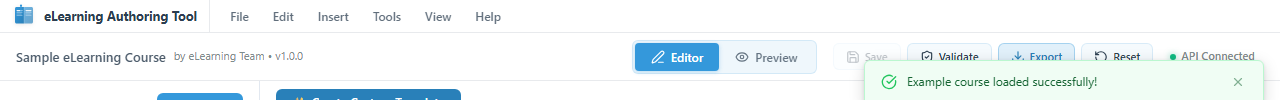
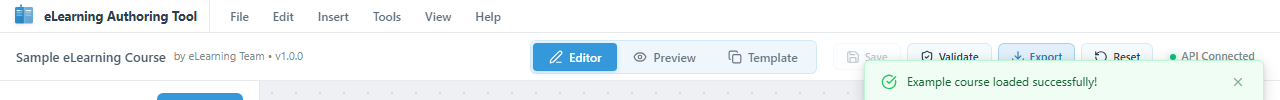
Move template button to Header nav area and lift state to App level
- Lifted showCustomTemplateEditor state from Editor/EditorV2 to App.tsx
- Updated Header component to render template button in nav area (next to Preview button)
- Updated Editor.tsx and EditorV2.tsx to accept state via props instead of managing locally
- Updated TypeScript interfaces (HeaderProps, EditorProps, EditorV2Props)
- Added featureFlags import to Header.tsx
- All 5 E2E tests passing

Changed region(s): [[0.4062, 0.39, 0.625, 0.75], [0.1875, 0.87, 0.375, 1.0]]

diff --git a/src/components/EditorV2.tsx b/src/components/EditorV2.tsx
@@ -14,15 +14,18 @@ import { fetchComponents, addComponent } from '../store/slices/componentsSlice';
 import { setCurrentPage, clearCurrentPage, updatePageTitle } from '../store/slices/editorSlice';
 import { updatePage } from '../store/slices/courseSlice';
 import { featureFlags } from '../utils/featureFlags';
+import { EditorV2Props } from '../types/comprehensive';
 import { ComponentList } from './ComponentList';
 import { ComponentSettings } from './ComponentSettings';
 import CustomTemplateEditor from './CustomTemplateEditor';
 import PageManager from './PageManager';
 import './Editor.css';
 
-const EditorV2: React.FC = () => {
+const EditorV2: React.FC<EditorV2Props> = ({
+  showCustomTemplateEditor = false,
+  onCloseTemplateEditor = () => {},
+}) => {
   const dispatch = useAppDispatch();
-  const [showCustomTemplateEditor, setShowCustomTemplateEditor] = useState(false);
   const [selectedComponentId, setSelectedComponentId] = useState<string | null>(null);
 
   const courseState = useAppSelector((state) => (state as any).course);
@@ -80,7 +83,7 @@ const EditorV2: React.FC = () => {
       {featureFlags.isEnabled('custom-template') && (
         <CustomTemplateEditor
           isOpen={showCustomTemplateEditor}
-          onClose={() => setShowCustomTemplateEditor(false)}
+          onClose={onCloseTemplateEditor}
         />
       )}
 
@@ -92,19 +95,6 @@ const EditorV2: React.FC = () => {
 
         {/* Main Content Area */}
         <div className="editor-main">
-          {/* Custom Template Button */}
-          {featureFlags.isEnabled('custom-template') && (
-            <div className="editor-toolbar">
-              <button
-                className="btn btn-custom-template"
-                onClick={() => setShowCustomTemplateEditor(true)}
-                title="Create custom template"
-              >
-                ✨ Create Custom Template
-              </button>
-            </div>
-          )}
-
           {pageId ? (
             <div className="editor-v2__component-area">
               <div className="editor-v2__page-header">

diff --git a/src/components/Header.tsx b/src/components/Header.tsx
@@ -29,6 +29,7 @@ import {
 import { Course, HeaderProps } from "../types/comprehensive";
 import logger from "../utils/logger";
 import logoSvg from "../assets/logo.svg";
+import { featureFlags } from "../utils/featureFlags";
 import "./Header.css";
 import { useToast } from "./Toast";
 import { ValidationPanel } from "./ValidationPanel";
@@ -37,6 +38,7 @@ const Header: React.FC<HeaderProps> = ({
   currentView,
   onViewChange,
   isBackendConnected,
+  onOpenTemplateEditor,
 }) => {
   const dispatch = useAppDispatch();
   const { validate, errors, warnings, hasErrors, hasWarnings, isValidating } =
@@ -314,6 +316,32 @@ const Header: React.FC<HeaderProps> = ({
             <Eye size={14} />
             Preview
           </button>
+          {onOpenTemplateEditor && featureFlags.isEnabled("custom-template") && (
+            <button
+              className="nav-button template-button"
+              onClick={onOpenTemplateEditor}
+              disabled={isLoading || !course}
+              title="Create a custom template from this course"
+            >
+              <svg
+                xmlns="http://www.w3.org/2000/svg"
+                width="14"
+                height="14"
+                viewBox="0 0 24 24"
+                fill="none"
+                stroke="currentColor"
+                strokeWidth="2"
+                strokeLinecap="round"
+                strokeLinejoin="round"
+                className="lucide lucide-copy"
+                aria-hidden="true"
+              >
+                <rect width="14" height="14" x="8" y="8" rx="2" ry="2"></rect>
+                <path d="M4 16c-1.1 0-2-.9-2-2V4c0-1.1.9-2 2-2h10c1.1 0 2 .9 2 2"></path>
+              </svg>
+              Template
+            </button>
+          )}
         </nav>
 
         <div className="header-right">

diff --git a/src/components/Editor.tsx b/src/components/Editor.tsx
@@ -6,14 +6,16 @@
 import React, { useState } from "react";
 import { useAppSelector } from "../store";
 import { featureFlags } from "../utils/featureFlags";
+import { EditorProps } from "../types/comprehensive";
 import CustomTemplateEditor from "./CustomTemplateEditor";
 import "./Editor.css";
 import PageEditor from "./PageEditor";
 import PageManager from "./PageManager";
 
-const Editor: React.FC = () => {
-  const [showCustomTemplateEditor, setShowCustomTemplateEditor] =
-    useState(false);
+const Editor: React.FC<EditorProps> = ({
+  showCustomTemplateEditor = false,
+  onCloseTemplateEditor = () => {},
+}) => {
 
   // Safe Redux selector with null checking
   const courseState = useAppSelector((state) => (state as any).course);
@@ -76,7 +78,7 @@ const Editor: React.FC = () => {
       {featureFlags.isEnabled("custom-template") && (
         <CustomTemplateEditor
           isOpen={showCustomTemplateEditor}
-          onClose={() => setShowCustomTemplateEditor(false)}
+          onClose={onCloseTemplateEditor}
         />
       )}
 
@@ -88,18 +90,6 @@ const Editor: React.FC = () => {
 
         {/* Main Content Area */}
         <div className="editor-main">
-          {/* Custom Template Button */}
-          {featureFlags.isEnabled("custom-template") && (
-            <div className="editor-toolbar">
-              <button
-                className="btn btn-custom-template"
-                onClick={() => setShowCustomTemplateEditor(true)}
-                title="Create custom template"
-              >
-                ✨ Create Custom Template
-              </button>
-            </div>
-          )}
           {/* DEBUG: Check conditional rendering */}
           {currentPage ? (
             <PageEditor key={currentPage.id} page={currentPage} />

diff --git a/src/App.tsx b/src/App.tsx
@@ -49,6 +49,9 @@ const AppContent: React.FC = () => {
     loading: true,
   });
 
+  // Custom Template Editor state
+  const [showCustomTemplateEditor, setShowCustomTemplateEditor] = useState(false);
+
   // Check backend connectivity on mount
   useEffect(() => {
     const checkBackend = async () => {
@@ -98,13 +101,13 @@ const AppContent: React.FC = () => {
         currentView={appState.currentView}
         onViewChange={handleViewChange}
         isBackendConnected={appState.isBackendConnected}
+        onOpenTemplateEditor={() => setShowCustomTemplateEditor(true)}
       />
 
       <main id="main" className="app-main" tabIndex={-1}>
         {appState.currentView === "editor"
-          ? (featureFlags.isEnabled("v2-editor") ? <EditorV2 /> : <Editor />)
-          : (featureFlags.isEnabled("v2-preview") ? <PreviewV2 /> : <Preview />)
-        }
+          ? (featureFlags.isEnabled("v2-editor") ? <EditorV2 showCustomTemplateEditor={showCustomTemplateEditor} onCloseTemplateEditor={() => setShowCustomTemplateEditor(false)} /> : <Editor showCustomTemplateEditor={showCustomTemplateEditor} onCloseTemplateEditor={() => setShowCustomTemplateEditor(false)} />)
+          : (featureFlags.isEnabled("v2-preview") ? <PreviewV2 /> : <Preview />)}
       </main>
     </div>
   );

diff --git a/src/types/comprehensive.ts b/src/types/comprehensive.ts
@@ -188,10 +188,17 @@ export interface HeaderProps {
   currentView: 'editor' | 'preview';
   onViewChange: (view: 'editor' | 'preview') => void;
   isBackendConnected: boolean;
+  onOpenTemplateEditor?: () => void;
 }
 
 export interface EditorProps {
-  // Editor component uses Redux — no required props
+  showCustomTemplateEditor?: boolean;
+  onCloseTemplateEditor?: () => void;
+}
+
+export interface EditorV2Props {
+  showCustomTemplateEditor?: boolean;
+  onCloseTemplateEditor?: () => void;
 }
 
 export interface DynamicComponentRendererProps {
